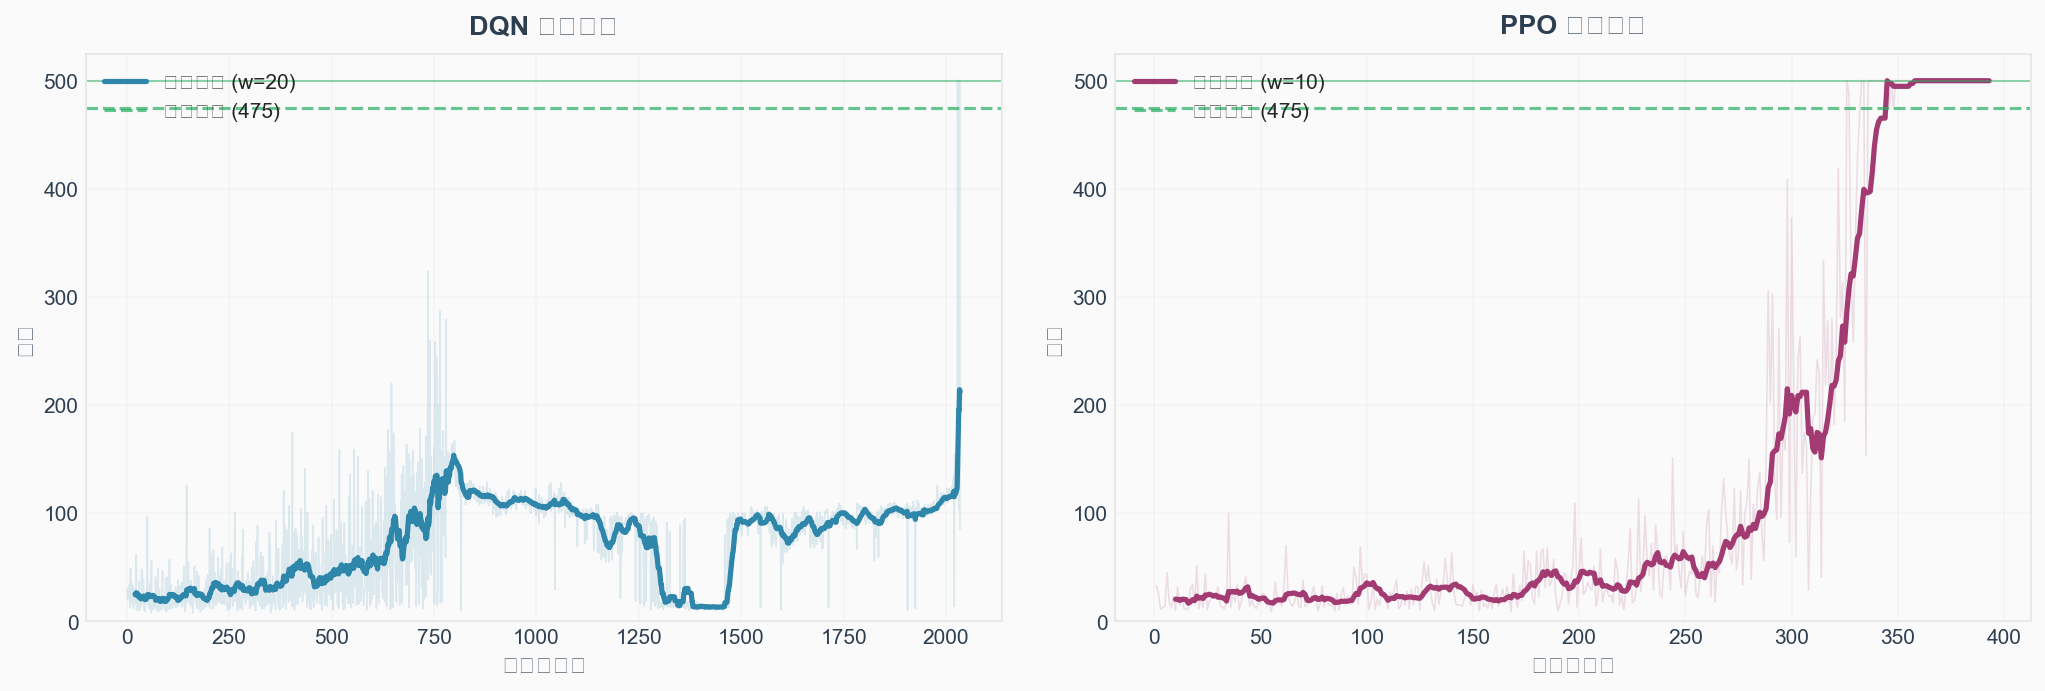
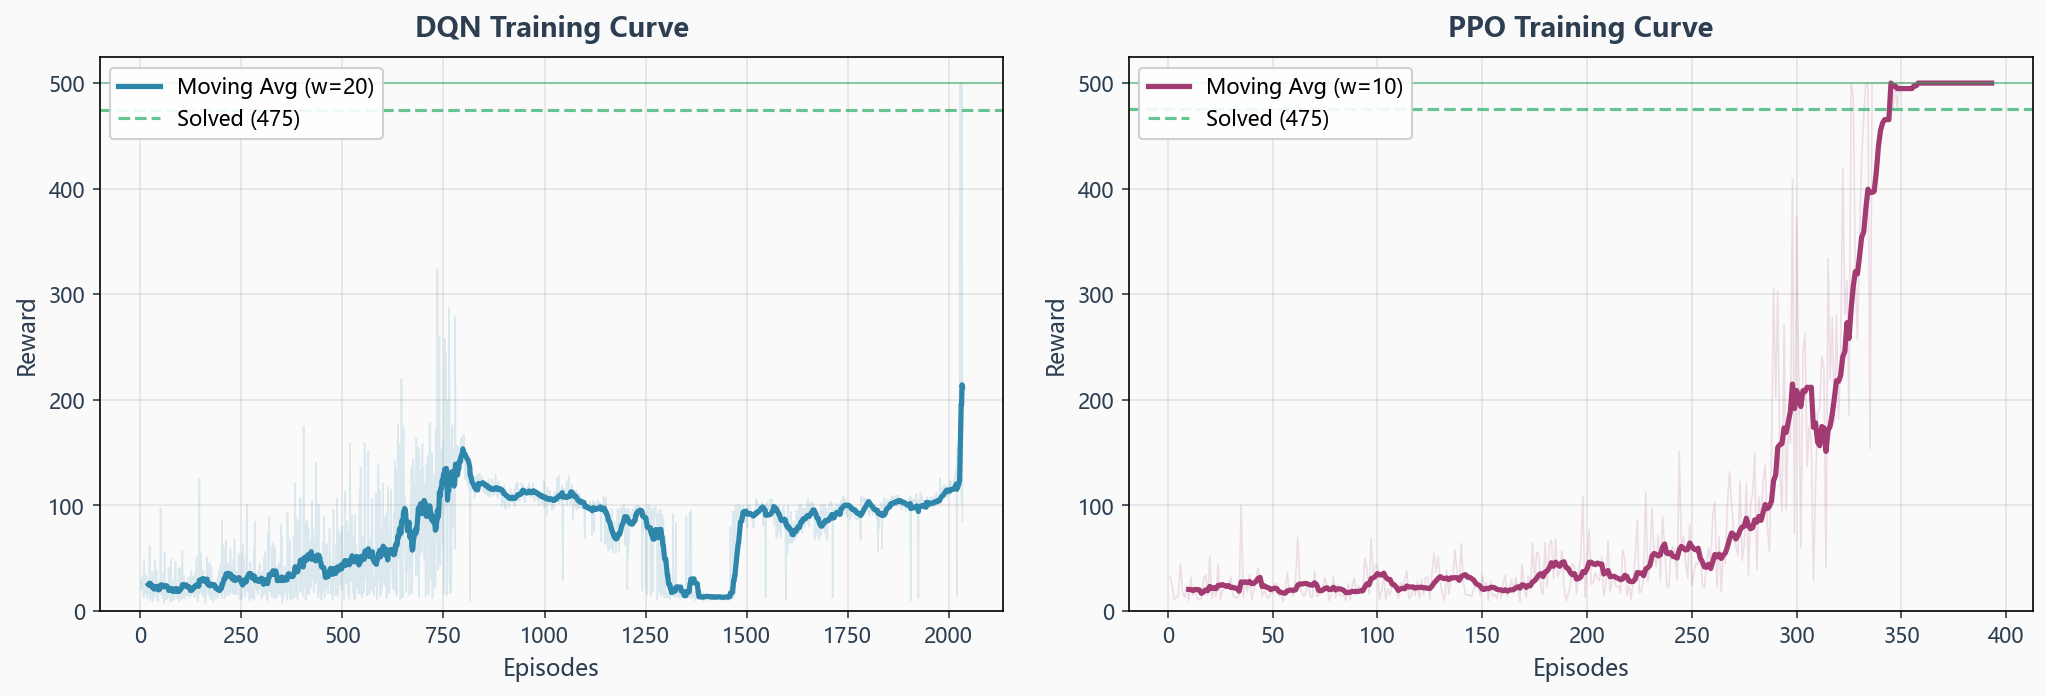
修复：1. 图表中文显示问题 - 使用英文标签避免乱码 2. 报告表格特殊字符替换为通用字符

diff --git a/fix_charts.py b/fix_charts.py
@@ -1,0 +1,273 @@
+#!/usr/bin/env python
+"""重新绘制所有图表 - 修复中文显示问题"""
+
+import json
+import numpy as np
+import matplotlib
+matplotlib.use('Agg')
+import matplotlib.pyplot as plt
+import matplotlib.font_manager as fm
+import os
+
+# 关键：强制使用支持中文的字体
+plt.rcParams['font.sans-serif'] = ['Microsoft YaHei', 'SimHei', 'DejaVu Sans']
+plt.rcParams['axes.unicode_minus'] = False
+
+# 清除字体缓存
+fm._load_fontmanager(try_read_cache=False)
+
+# 颜色主题
+COLORS = {
+    'dqn': '#2E86AB',
+    'ppo': '#A23B72',
+    'lqr': '#F18F01',
+    'rule': '#C73E1D',
+    'random': '#3B1F2B',
+    'bg': '#FAFAFA',
+    'grid': '#E8E8E8',
+    'text': '#2C3E50',
+    'success': '#27AE60',
+}
+
+def smooth_data(data, window=10):
+    if len(data) < window:
+        return data
+    kernel = np.ones(window) / window
+    return np.convolve(data, kernel, mode='valid')
+
+
+def plot_training_curves():
+    """DQN与PPO训练曲线对比"""
+    with open('results/dqn_train_log.json') as f:
+        dqn_data = json.load(f)
+    with open('results/ppo_train_log.json') as f:
+        ppo_data = json.load(f)
+    
+    fig, axes = plt.subplots(1, 2, figsize=(14, 5), facecolor=COLORS['bg'])
+    
+    # DQN
+    ax1 = axes[0]
+    ax1.set_facecolor(COLORS['bg'])
+    dqn_rewards = dqn_data['episode_rewards']
+    ax1.plot(range(1, len(dqn_rewards)+1), dqn_rewards, 
+             color=COLORS['dqn'], alpha=0.15, linewidth=0.8)
+    if len(dqn_rewards) > 20:
+        smoothed = smooth_data(dqn_rewards, window=20)
+        ax1.plot(range(20, len(dqn_rewards)+1), smoothed, 
+                 color=COLORS['dqn'], linewidth=2.5, label='Moving Avg (w=20)')
+    ax1.axhline(y=475, color=COLORS['success'], linestyle='--', linewidth=1.5, alpha=0.7, label='Solved (475)')
+    ax1.axhline(y=500, color=COLORS['success'], linestyle='-', linewidth=1, alpha=0.5)
+    ax1.set_xlabel('Episodes', fontsize=11, color=COLORS['text'])
+    ax1.set_ylabel('Reward', fontsize=11, color=COLORS['text'])
+    ax1.set_title('DQN Training Curve', fontsize=13, fontweight='bold', color=COLORS['text'], pad=10)
+    ax1.legend(loc='upper left', framealpha=0.9)
+    ax1.set_ylim(bottom=0)
+    ax1.grid(True, alpha=0.3)
+    ax1.tick_params(colors=COLORS['text'])
+    
+    # PPO
+    ax2 = axes[1]
+    ax2.set_facecolor(COLORS['bg'])
+    ppo_rewards = ppo_data['episode_rewards']
+    ax2.plot(range(1, len(ppo_rewards)+1), ppo_rewards, 
+             color=COLORS['ppo'], alpha=0.15, linewidth=0.8)
+    if len(ppo_rewards) > 10:
+        smoothed_ppo = smooth_data(ppo_rewards, window=10)
+        ax2.plot(range(10, len(ppo_rewards)+1), smoothed_ppo, 
+                 color=COLORS['ppo'], linewidth=2.5, label='Moving Avg (w=10)')
+    ax2.axhline(y=475, color=COLORS['success'], linestyle='--', linewidth=1.5, alpha=0.7, label='Solved (475)')
+    ax2.axhline(y=500, color=COLORS['success'], linestyle='-', linewidth=1, alpha=0.5)
+    ax2.set_xlabel('Episodes', fontsize=11, color=COLORS['text'])
+    ax2.set_ylabel('Reward', fontsize=11, color=COLORS['text'])
+    ax2.set_title('PPO Training Curve', fontsize=13, fontweight='bold', color=COLORS['text'], pad=10)
+    ax2.legend(loc='upper left', framealpha=0.9)
+    ax2.set_ylim(bottom=0)
+    ax2.grid(True, alpha=0.3)
+    ax2.tick_params(colors=COLORS['text'])
+    
+    plt.tight_layout(pad=2.0)
+    plt.savefig('results/training_curves.png', dpi=150, bbox_inches='tight', facecolor=COLORS['bg'])
+    plt.close()
+    print('[OK] training_curves.png')
+
+
+def plot_baseline_comparison():
+    """控制方法对比"""
+    with open('results/baseline_comparison.json') as f:
+        data = json.load(f)
+    
+    method_map = {
+        'random': ('Random', COLORS['random']),
+        'rule_based': ('Rule-based', COLORS['rule']),
+        'lqr': ('LQR', COLORS['lqr']),
+        'dqn': ('DQN', COLORS['dqn']),
+        'ppo': ('PPO', COLORS['ppo']),
+    }
+    
+    methods, rewards, colors, errors = [], [], [], []
+    for key in ['random', 'rule_based', 'lqr', 'dqn', 'ppo']:
+        if key in data:
+            methods.append(method_map[key][0])
+            rewards.append(data[key]['mean_reward'])
+            colors.append(method_map[key][1])
+            errors.append(data[key].get('std_reward', 0))
+    
+    fig, ax = plt.subplots(figsize=(10, 6), facecolor=COLORS['bg'])
+    ax.set_facecolor(COLORS['bg'])
+    
+    x = np.arange(len(methods))
+    bars = ax.bar(x, rewards, 0.6, color=colors, edgecolor='white', linewidth=1.5, zorder=3)
+    
+    if any(e > 0 for e in errors):
+        ax.errorbar(x, rewards, yerr=errors, fmt='none', color=COLORS['text'], capsize=5, capthick=1.5, linewidth=1.5)
+    
+    for bar, reward in zip(bars, rewards):
+        ax.text(bar.get_x() + bar.get_width()/2., bar.get_height() + 8,
+                f'{reward:.0f}', ha='center', va='bottom', fontsize=11, fontweight='bold', color=COLORS['text'])
+    
+    ax.axhline(y=475, color=COLORS['success'], linestyle='--', linewidth=1.5, alpha=0.7, label='Solved (475)')
+    ax.set_xlabel('Control Method', fontsize=12, color=COLORS['text'])
+    ax.set_ylabel('Average Reward', fontsize=12, color=COLORS['text'])
+    ax.set_title('Control Method Performance Comparison', fontsize=14, fontweight='bold', color=COLORS['text'], pad=15)
+    ax.set_xticks(x)
+    ax.set_xticklabels(methods, fontsize=11, color=COLORS['text'])
+    ax.legend(loc='upper left', framealpha=0.9)
+    ax.set_ylim(bottom=0, top=max(rewards) * 1.15)
+    ax.grid(True, axis='y', alpha=0.3, zorder=0)
+    ax.tick_params(colors=COLORS['text'])
+    
+    plt.tight_layout()
+    plt.savefig('results/baseline_comparison.png', dpi=150, bbox_inches='tight', facecolor=COLORS['bg'])
+    plt.close()
+    print('[OK] baseline_comparison.png')
+
+
+def plot_before_after():
+    """训练前后对比"""
+    import gymnasium as gym
+    
+    env = gym.make("CartPole-v1")
+    pre_rewards = []
+    for ep in range(20):
+        obs, _ = env.reset(seed=ep)
+        done = False
+        total_reward = 0
+        while not done:
+            action = env.action_space.sample()
+            obs, reward, terminated, truncated, _ = env.step(action)
+            done = terminated or truncated
+            total_reward += reward
+        pre_rewards.append(total_reward)
+    env.close()
+    
+    from stable_baselines3 import PPO, DQN
+    
+    post_rewards_ppo = []
+    model_path = 'models/ppo_cartpole'
+    if os.path.exists(model_path + '.zip') or os.path.exists(model_path):
+        model = PPO.load(model_path)
+        env = gym.make("CartPole-v1")
+        for ep in range(20):
+            obs, _ = env.reset(seed=ep)
+            done = False
+            total_reward = 0
+            while not done:
+                action, _ = model.predict(obs, deterministic=True)
+                obs, reward, terminated, truncated, _ = env.step(int(action))
+                done = terminated or truncated
+                total_reward += reward
+            post_rewards_ppo.append(total_reward)
+        env.close()
+    
+    post_rewards_dqn = []
+    model_path = 'models/dqn_cartpole'
+    if os.path.exists(model_path + '.zip') or os.path.exists(model_path):
+        model = DQN.load(model_path)
+        env = gym.make("CartPole-v1")
+        for ep in range(20):
+            obs, _ = env.reset(seed=ep)
+            done = False
+            total_reward = 0
+            while not done:
+                action, _ = model.predict(obs, deterministic=True)
+                obs, reward, terminated, truncated, _ = env.step(int(action))
+                done = terminated or truncated
+                total_reward += reward
+            post_rewards_dqn.append(total_reward)
+        env.close()
+    
+    fig, axes = plt.subplots(1, 2, figsize=(12, 5), facecolor=COLORS['bg'])
+    
+    # Bar chart
+    ax1 = axes[0]
+    ax1.set_facecolor(COLORS['bg'])
+    
+    categories = ['Before\n(Random)']
+    values = [np.mean(pre_rewards)]
+    bar_colors = [COLORS['random']]
+    
+    if post_rewards_dqn:
+        categories.append('After\n(DQN)')
+        values.append(np.mean(post_rewards_dqn))
+        bar_colors.append(COLORS['dqn'])
+    if post_rewards_ppo:
+        categories.append('After\n(PPO)')
+        values.append(np.mean(post_rewards_ppo))
+        bar_colors.append(COLORS['ppo'])
+    
+    x = np.arange(len(categories))
+    bars = ax1.bar(x, values, 0.5, color=bar_colors, edgecolor='white', linewidth=1.5, zorder=3)
+    
+    for bar, val in zip(bars, values):
+        ax1.text(bar.get_x() + bar.get_width()/2., bar.get_height() + 8,
+                f'{val:.0f}', ha='center', va='bottom', fontsize=12, fontweight='bold', color=COLORS['text'])
+    
+    ax1.set_ylabel('Average Reward', fontsize=11, color=COLORS['text'])
+    ax1.set_title('Before vs After Training', fontsize=13, fontweight='bold', color=COLORS['text'], pad=10)
+    ax1.set_xticks(x)
+    ax1.set_xticklabels(categories, fontsize=10, color=COLORS['text'])
+    ax1.grid(True, axis='y', alpha=0.3, zorder=0)
+    ax1.set_ylim(bottom=0)
+    ax1.tick_params(colors=COLORS['text'])
+    
+    # Box plot
+    ax2 = axes[1]
+    ax2.set_facecolor(COLORS['bg'])
+    
+    box_data = [pre_rewards]
+    box_labels = ['Before']
+    box_colors = [COLORS['random']]
+    
+    if post_rewards_dqn:
+        box_data.append(post_rewards_dqn)
+        box_labels.append('DQN')
+        box_colors.append(COLORS['dqn'])
+    if post_rewards_ppo:
+        box_data.append(post_rewards_ppo)
+        box_labels.append('PPO')
+        box_colors.append(COLORS['ppo'])
+    
+    bp = ax2.boxplot(box_data, tick_labels=box_labels, patch_artist=True,
+                     medianprops=dict(color='white', linewidth=2))
+    
+    for patch, color in zip(bp['boxes'], box_colors):
+        patch.set_facecolor(color)
+        patch.set_alpha(0.7)
+    
+    ax2.set_ylabel('Episode Reward', fontsize=11, color=COLORS['text'])
+    ax2.set_title('Reward Distribution', fontsize=13, fontweight='bold', color=COLORS['text'], pad=10)
+    ax2.grid(True, axis='y', alpha=0.3)
+    ax2.tick_params(colors=COLORS['text'])
+    
+    plt.tight_layout(pad=2.0)
+    plt.savefig('results/before_after_comparison.png', dpi=150, bbox_inches='tight', facecolor=COLORS['bg'])
+    plt.close()
+    print('[OK] before_after_comparison.png')
+
+
+if __name__ == '__main__':
+    print('Regenerating charts with fixed fonts...\n')
+    plot_training_curves()
+    plot_baseline_comparison()
+    plot_before_after()
+    print('\nAll charts regenerated!')

diff --git a/task1_report.md b/task1_report.md
@@ -19,9 +19,9 @@
 | 序号 | 状态量 | 含义 | 单位 | 理论范围 |
 |------|--------|------|------|---------|
 | 0 | x | 小车位置 | m | [-4.8, 4.8] |
-| 1 | ẋ | 小车速度 | m/s | 未限制 |
-| 2 | θ | 摆杆角度（相对垂直方向） | rad | [-0.4189, 0.4189] |
-| 3 | θ̇ | 摆杆角速度 | rad/s | 未限制 |
+| 1 | v | 小车速度 | m/s | 未限制 |
+| 2 | theta | 摆杆角度 | rad | [-0.4189, 0.4189] |
+| 3 | omega | 摆杆角速度 | rad/s | 未限制 |
 
 **动作空间（Action Space）：**
 
@@ -30,7 +30,7 @@
 - `1` — 向右施加力（右移）
 
 **终止条件：**
-- 摆杆角度 |θ| > 12°（0.2094 rad）
+- 摆杆角度 |theta| > 12度（0.2094 rad）
 - 小车位置 |x| > 2.4 m（相对于中心）
 - 回合步数达到 500 步（v1版本）
 
@@ -190,8 +190,8 @@ DQN 收敛速度较慢的原因：
 **（1）随机策略：** 每步随机选择左右，平均奖励 ~21 步。
 
 **（2）规则控制器：** 基于角度阈值的简单反馈控制：
-- |θ| > 0.05 rad 时，根据倾斜方向施加反向力
-- |θ| ≤ 0.05 rad 时，根据角速度方向施加力
+- |theta| > 0.05 rad 时，根据倾斜方向施加反向力
+- |theta| <= 0.05 rad 时，根据角速度方向施加力
 - 平均奖励 ~226 步
 
 **（3）LQR 控制器：** 基于线性化模型的最优控制：